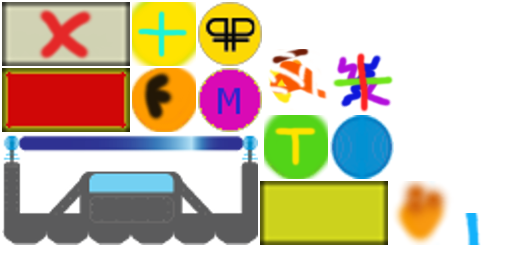
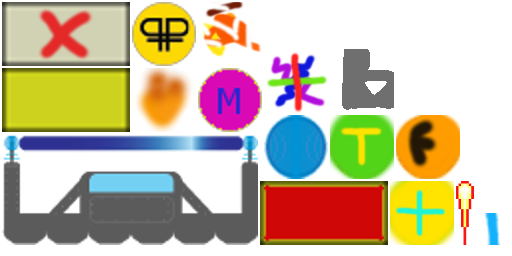
Added Ship Side Guns
- Added side guns to ship that passively shoot every 500 miliseconds currently. (I tried doing shoot on touch, but it felt not fun)

diff --git a/core/src/com/your3wishes/game/GameScreen.java b/core/src/com/your3wishes/game/GameScreen.java
@@ -40,6 +40,9 @@ public class GameScreen implements Screen {
     private Ball ball;
     private final Array<Ball> balls;
     private final Pool<Ball> ballPool;
+    private ShipBullet shipBullet;
+    private final Array<ShipBullet> shipBullets;
+    private final Pool<ShipBullet> shipBulletPool;
     private Array<Brick> bricks;
     private Brick brick;
     private Explosion explosion;
@@ -51,10 +54,14 @@ public class GameScreen implements Screen {
     private BrickExplosion brickExplosion;
     private final Array<BrickExplosion> brickExplosions;
     private final Pool<BrickExplosion> brickExplosionPool;
+    private SideGun sideGun;
+    private final Array<SideGun> sideGuns;
     private int fireBallDuration = 6000;
     private int slowTimeDuration = 5000;
     private int paddleGrowDuration = 5000;
     private int ballGrowDuration = 5000;
+    private int shipBulletDuration = 500;
+    private long shipBulletStartTime;
     private long fireBallStartTime;
     private long slowTimeStartTime;
     private long paddleGrowStartTime;
@@ -106,6 +113,21 @@ public class GameScreen implements Screen {
         paddle = new Paddle(game.assets);
         stage.addActor(paddle);
 
+        // Add sideGuns to paddle and stage
+        sideGuns = new Array<SideGun>();
+        sideGuns.add(new SideGun(game.assets, paddle, -1));
+        sideGuns.add(new SideGun(game.assets, paddle, 1));
+        stage.addActor(sideGuns.get(0));
+        stage.addActor(sideGuns.get(1));
+
+        // Initialize ship bullets
+        shipBullets = new Array<ShipBullet>();
+        shipBulletPool = new Pool<ShipBullet>() {
+            @Override
+            protected  ShipBullet newObject() {
+                return new ShipBullet(game.assets);
+            }
+        };
 
         // Initialize balls
         balls = new Array<Ball>();
@@ -219,13 +241,9 @@ public class GameScreen implements Screen {
         stage.act(delta);
         handleTimers();
         checkCollisions();
+        tryToShoot();
         handleInput();
-        freeItems(coins, coinPool);
-        freeItems(powerups, powerupPool);
-        freeItems(explosions, explosionPool);
-        freeItems(balls, ballPool);
-        freeItems(brickExplosions, brickExplosionPool);
-        freeItems(fireballs, fireballPool);
+        freeItems();
         fpsLogger.log();
         if (balls.size <= 0) {
             life -= ballLifeReduction;
@@ -306,7 +324,6 @@ public class GameScreen implements Screen {
         }
 
         // Check for collisions between balls and bricks
-        // Check for collisions between BrickExplosions and bricks
         // Using an iterator for safe removal of items while iterating
         for (Iterator<Brick> iterator = bricks.iterator(); iterator.hasNext();) {
             Brick brick = iterator.next();
@@ -314,7 +331,7 @@ public class GameScreen implements Screen {
                 if (brick.getBounds().overlaps(item.getBounds())) {
                     // Damage brick
                     if (fireballActive) brick.setHealth(0);
-                    brick.hit();
+                    brick.ballHit();
                     if (!brick.alive) {
                         removeBrick(iterator, brick);
                     }
@@ -328,23 +345,40 @@ public class GameScreen implements Screen {
             }
 
         }
-       for (Iterator<Brick> iterator = bricks.iterator(); iterator.hasNext();) {
+
+        // Check for collisions between BrickExplosions and bricks
+        for (Iterator<Brick> iterator = bricks.iterator(); iterator.hasNext();) {
             Brick brick = iterator.next();
-           int brickExplosionsSize = brickExplosions.size;
-           for (int i = 0; i < brickExplosionsSize; i++) {
-               if (brick.getBounds().overlaps(brickExplosions.get(i).getBounds())) {
-                   brick.setHealth(0);
-                   brick.hit();
-                   if (!brick.alive) {
-                       removeBrick(iterator, brick);
-                   }
-                   break;
-               }
-           }
-       }
+            for (ShipBullet item : shipBullets) {
+                if (brick.getBounds().overlaps(item.getBounds())) {
+                    item.alive = false;
+                    // Damage brick
+                    brick.bulletHit(item.getDamage());
+                    if (!brick.alive) {
+                        removeBrick(iterator, brick);
+                    }
+                    score+=2;
+                    // Move to next brick. No use checking other bullets against this brick if it is now destroyed.
+                    break;
+                }
+            }
+        }
 
-
-
+        // Check for collisions between bullets and bricks
+        for (Iterator<Brick> iterator = bricks.iterator(); iterator.hasNext();) {
+            Brick brick = iterator.next();
+            int brickExplosionsSize = brickExplosions.size;
+            for (int i = 0; i < brickExplosionsSize; i++) {
+                if (brick.getBounds().overlaps(brickExplosions.get(i).getBounds())) {
+                    brick.setHealth(0);
+                    brick.ballHit();
+                    if (!brick.alive) {
+                        removeBrick(iterator, brick);
+                    }
+                    break;
+                }
+            }
+        }
 
         // Bounce balls
         for (Ball item: balls) {
@@ -386,6 +420,10 @@ public class GameScreen implements Screen {
         }
         else {
             lastTouchX = -1; // Indicates we picked up finger
+        }
+
+        if (Gdx.input.justTouched()) {
+            //tryToShoot();
         }
 
         // Control ball for debugging
@@ -486,6 +524,18 @@ public class GameScreen implements Screen {
         stage.addActor(fireball);
     }
 
+    private void spawnShipBullets() {
+        for (int i = 0; i < sideGuns.size; i++) {
+            shipBullet = shipBulletPool.obtain();
+            shipBullet.init();
+            sideGun = sideGuns.get(i);
+            shipBullet.setPosition(sideGun.getX() + (sideGun.getWidth() * sideGun.getScaleX() /2) - (shipBullet.getWidth() * shipBullet.getScaleX()) /2,
+                    sideGun.getY() + (sideGun.getHeight() * sideGun.getScaleY()));
+            shipBullets.add(shipBullet);
+            stage.addActor(shipBullet);
+        }
+    }
+
     private void spawnPowerup(Brick brick) {
         powerup = powerupPool.obtain();
         Array<Powerup.Type> powerupTypes = new Array<Powerup.Type>();
@@ -526,6 +576,24 @@ public class GameScreen implements Screen {
 
     public int getCoinsCollected(){
         return coinsCollected;
+    }
+
+    private void freeItems() {
+        freeItems(coins, coinPool);
+        freeItems(powerups, powerupPool);
+        freeItems(explosions, explosionPool);
+        freeItems(balls, ballPool);
+        freeItems(brickExplosions, brickExplosionPool);
+        freeItems(fireballs, fireballPool);
+        freeItems(shipBullets, shipBulletPool);
+    }
+
+    private void tryToShoot() {
+        if (System.currentTimeMillis() - shipBulletDuration > shipBulletStartTime) {
+            spawnShipBullets();
+            shipBulletStartTime = System.currentTimeMillis();
+        }
+
     }
 
     @Override

diff --git a/core/src/com/your3wishes/game/ShipBullet.java b/core/src/com/your3wishes/game/ShipBullet.java
@@ -1,0 +1,78 @@
+package com.your3wishes.game;
+
+import com.badlogic.gdx.graphics.g2d.Batch;
+import com.badlogic.gdx.graphics.g2d.TextureAtlas;
+import com.badlogic.gdx.graphics.g2d.TextureRegion;
+import com.badlogic.gdx.math.Rectangle;
+import com.badlogic.gdx.scenes.scene2d.Actor;
+import com.badlogic.gdx.utils.Pool;
+
+/**
+ * Created by Your3Wishes on 8/14/2017.
+ */
+
+public class ShipBullet extends Actor implements Pool.Poolable, Freeable {
+
+    private TextureRegion texture;
+    private Rectangle bounds;
+    public boolean alive = true;
+    private float dy = 1500.0f;
+    private int damage = 25;
+
+    public ShipBullet (Assets assets) {
+        TextureAtlas atlas = assets.assetManager.get("gameScreen.atlas", TextureAtlas.class);
+        texture = new TextureRegion(atlas.findRegion("shipBullet"));
+        setBounds(0,0,texture.getRegionWidth(),texture.getRegionHeight());
+        bounds = new Rectangle(getX(), getY(), getWidth(), getHeight());
+    }
+
+    @Override
+    public void draw (Batch batch, float parentAlpha) {
+        batch.draw(texture, this.getX(), this.getY(),this.getOriginX(), this.getOriginY(),
+                this.getWidth(), this.getHeight(), this.getScaleX(), this.getScaleY(),this.getRotation());
+    }
+
+    @Override
+    public void act (float delta) {
+        setY(getY() + (dy * delta));
+
+        if (getY() > MyGame.SCREENHEIGHT) {
+            alive = false;
+        }
+
+        // Update bounding box
+        setBounds(getX(), getY());
+    }
+
+    public void setBounds(float x, float y) {
+        this.bounds.setX(x);
+        this.bounds.setY(y);
+    }
+
+    @Override
+    public void reset() {
+        alive = false;
+    }
+
+    public void init() {
+        alive = true;
+    }
+
+    @Override
+    public boolean isAlive() {
+        return alive;
+    }
+
+    @Override
+    public void removeFromStage() {
+        this.remove();
+    }
+
+    public int getDamage() {
+        return damage;
+    }
+
+    public Rectangle getBounds() {
+        return bounds;
+    }
+}

diff --git a/core/src/com/your3wishes/game/SideGun.java b/core/src/com/your3wishes/game/SideGun.java
@@ -1,0 +1,51 @@
+package com.your3wishes.game;
+
+import com.badlogic.gdx.graphics.g2d.Batch;
+import com.badlogic.gdx.graphics.g2d.TextureAtlas;
+import com.badlogic.gdx.graphics.g2d.TextureRegion;
+import com.badlogic.gdx.scenes.scene2d.Actor;
+
+/**
+ * Created by Your3Wishes on 8/14/2017.
+ */
+
+public class SideGun extends Actor {
+
+    private TextureRegion texture;
+    private Paddle paddle;
+    private int sideOfShip;
+
+    // sideOfShip: -1 = left, 1 = right
+    public SideGun (Assets assets, Paddle paddle, int sideOfShip) {
+        this.paddle = paddle;
+        this.sideOfShip = sideOfShip;
+        TextureAtlas atlas = assets.assetManager.get("gameScreen.atlas", TextureAtlas.class);
+        texture = new TextureRegion(atlas.findRegion("sideGun"));
+        setBounds(0,0,texture.getRegionWidth(),texture.getRegionHeight());
+        if (sideOfShip == -1) {
+            this.setPosition(paddle.getX() - (getWidth() * getScaleX()), paddle.getY());
+        }
+        else {
+            this.setPosition(paddle.getX() + (paddle.getWidth() * paddle.getScaleX()), paddle.getY());
+            texture.flip(true, false);
+        }
+
+    }
+
+    @Override
+    public void draw (Batch batch, float parentAlpha) {
+            batch.draw(texture, this.getX(), this.getY(),this.getOriginX(), this.getOriginY(),
+                    this.getWidth(), this.getHeight(), this.getScaleX(), this.getScaleY(),this.getRotation());
+    }
+
+    @Override
+    public void act (float delta) {
+        if (sideOfShip == -1) {
+            this.setPosition(paddle.getX() - (getWidth() * getScaleX()), paddle.getY());
+        }
+        else {
+            this.setPosition(paddle.getX() + (paddle.getWidth() * paddle.getScaleX()), paddle.getY());
+        }
+    }
+
+}

diff --git a/core/src/com/your3wishes/game/Ball.java b/core/src/com/your3wishes/game/Ball.java
@@ -32,7 +32,7 @@ public class Ball extends Actor implements Pool.Poolable, Freeable {
         texture = atlas.findRegion("ball");
         this.setScale(initialScale, initialScale);
         setBounds(0,0,texture.getRegionWidth() * getScaleX(),texture.getRegionHeight() * getScaleY());
-        bounds = new Rectangle(getX(), getY(), getWidth(), getHeight());
+        bounds = new Rectangle(getX(), getY(), getWidth() * getScaleX(), getHeight() * getScaleY());
 
         this.setPosition((MyGame.SCREENWIDTH / 2) - (getWidth() / 2), 80);
     }
@@ -83,7 +83,7 @@ public class Ball extends Actor implements Pool.Poolable, Freeable {
         // Update ball bounds
         setBounds(getX(), getY(), texture.getRegionWidth() * getScaleX(), texture.getRegionHeight() * getScaleY());
         bounds.setWidth(getWidth() * getScaleX());
-        bounds.setHeight(getHeight() * getScaleX());
+        bounds.setHeight(getHeight() * getScaleY());
 
         // Update bounding box
         setBounds(getX(), getY());

diff --git a/core/src/com/your3wishes/game/Brick.java b/core/src/com/your3wishes/game/Brick.java
@@ -13,6 +13,8 @@ import com.badlogic.gdx.scenes.scene2d.Actor;
 public class Brick extends Actor {
     protected TextureRegion texture;
     protected Rectangle bounds;
+    protected int bulletHealth = 100; // Health pool for when bullets hit brick
+    protected int currBulletHealth = bulletHealth;
     protected int health;
     protected TextureAtlas atlas;
 
@@ -53,11 +55,20 @@ public class Brick extends Actor {
         this.bounds.setY(y);
     }
 
-    public void hit() {
+    public void ballHit() {
         health--;
         if (health <=0) alive = false;
-
         setTexture();
+    }
+
+    public void bulletHit(int damage) {
+        currBulletHealth -= damage;
+        if (currBulletHealth <= 0) {
+            health--;
+            if (health <=0) alive = false;
+            setTexture();
+            currBulletHealth = bulletHealth;
+        }
     }
 
     public void setHealth(int health) {
